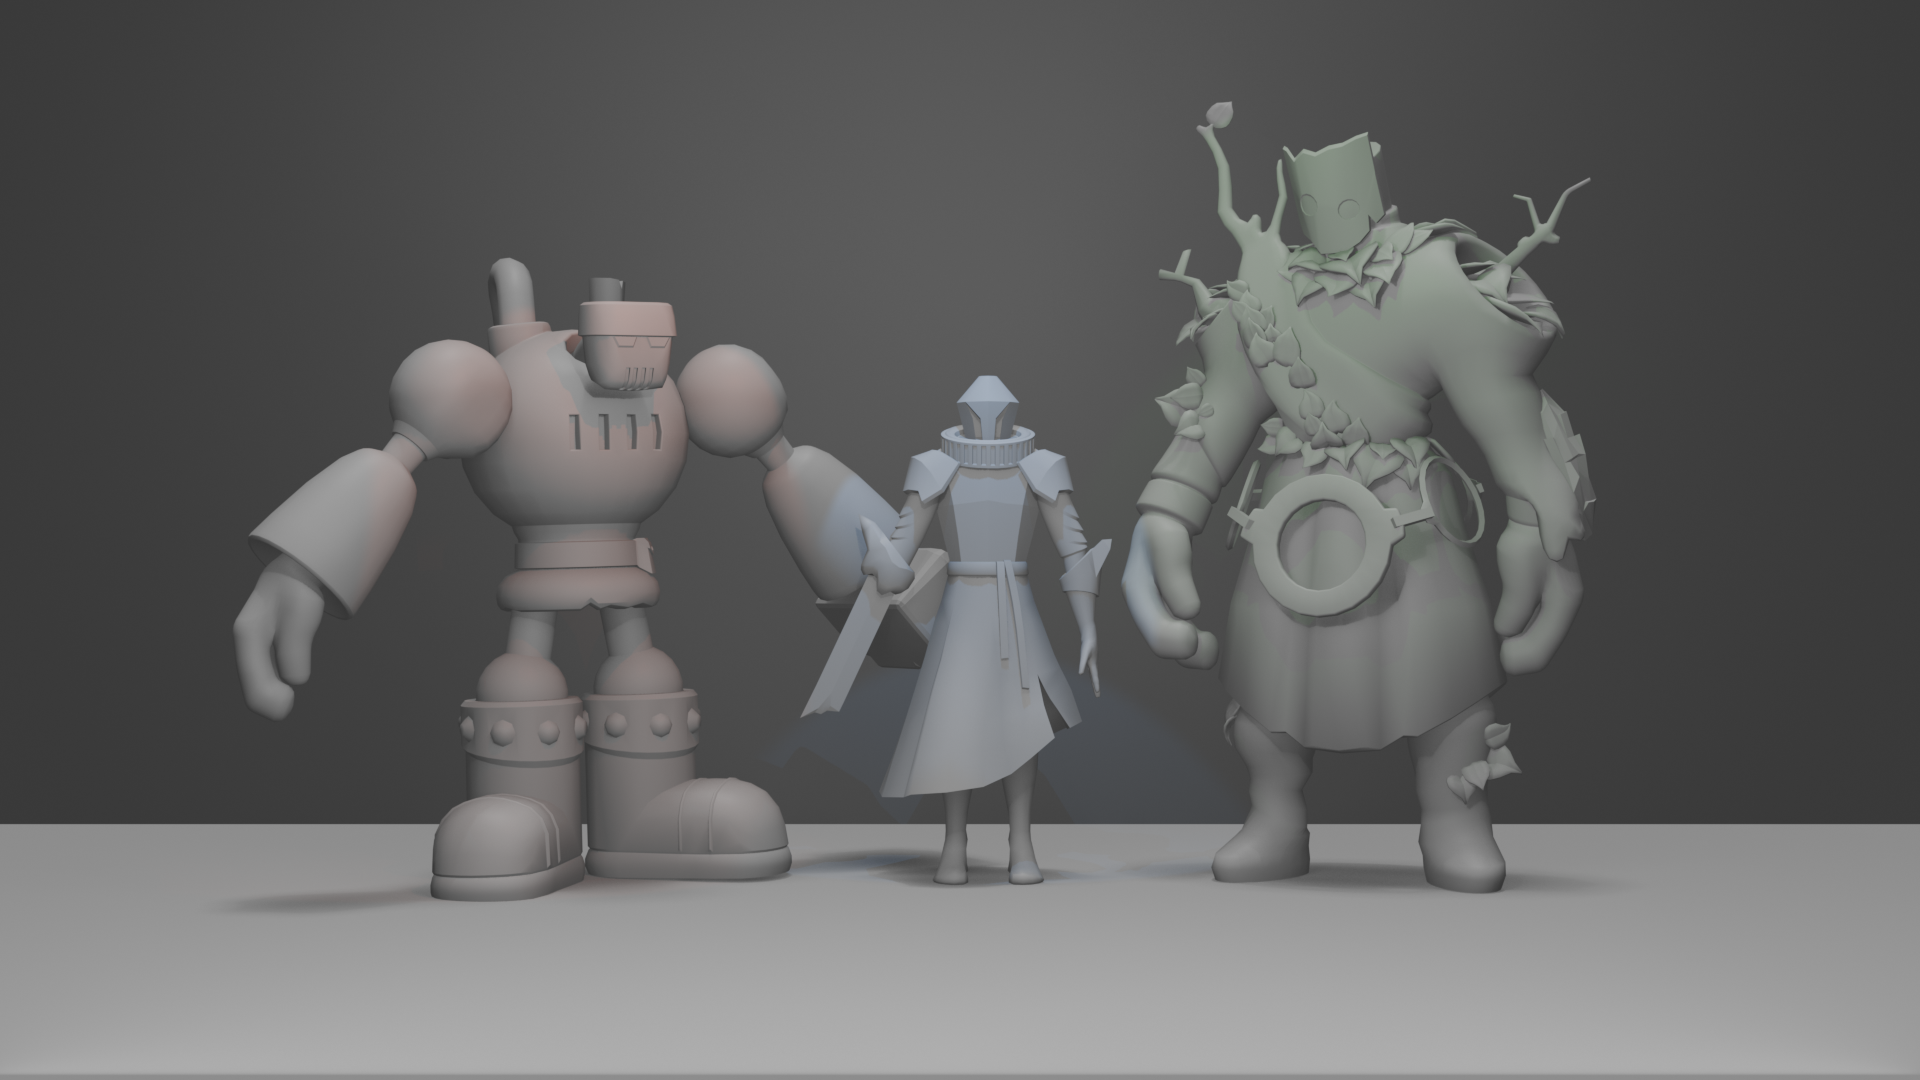
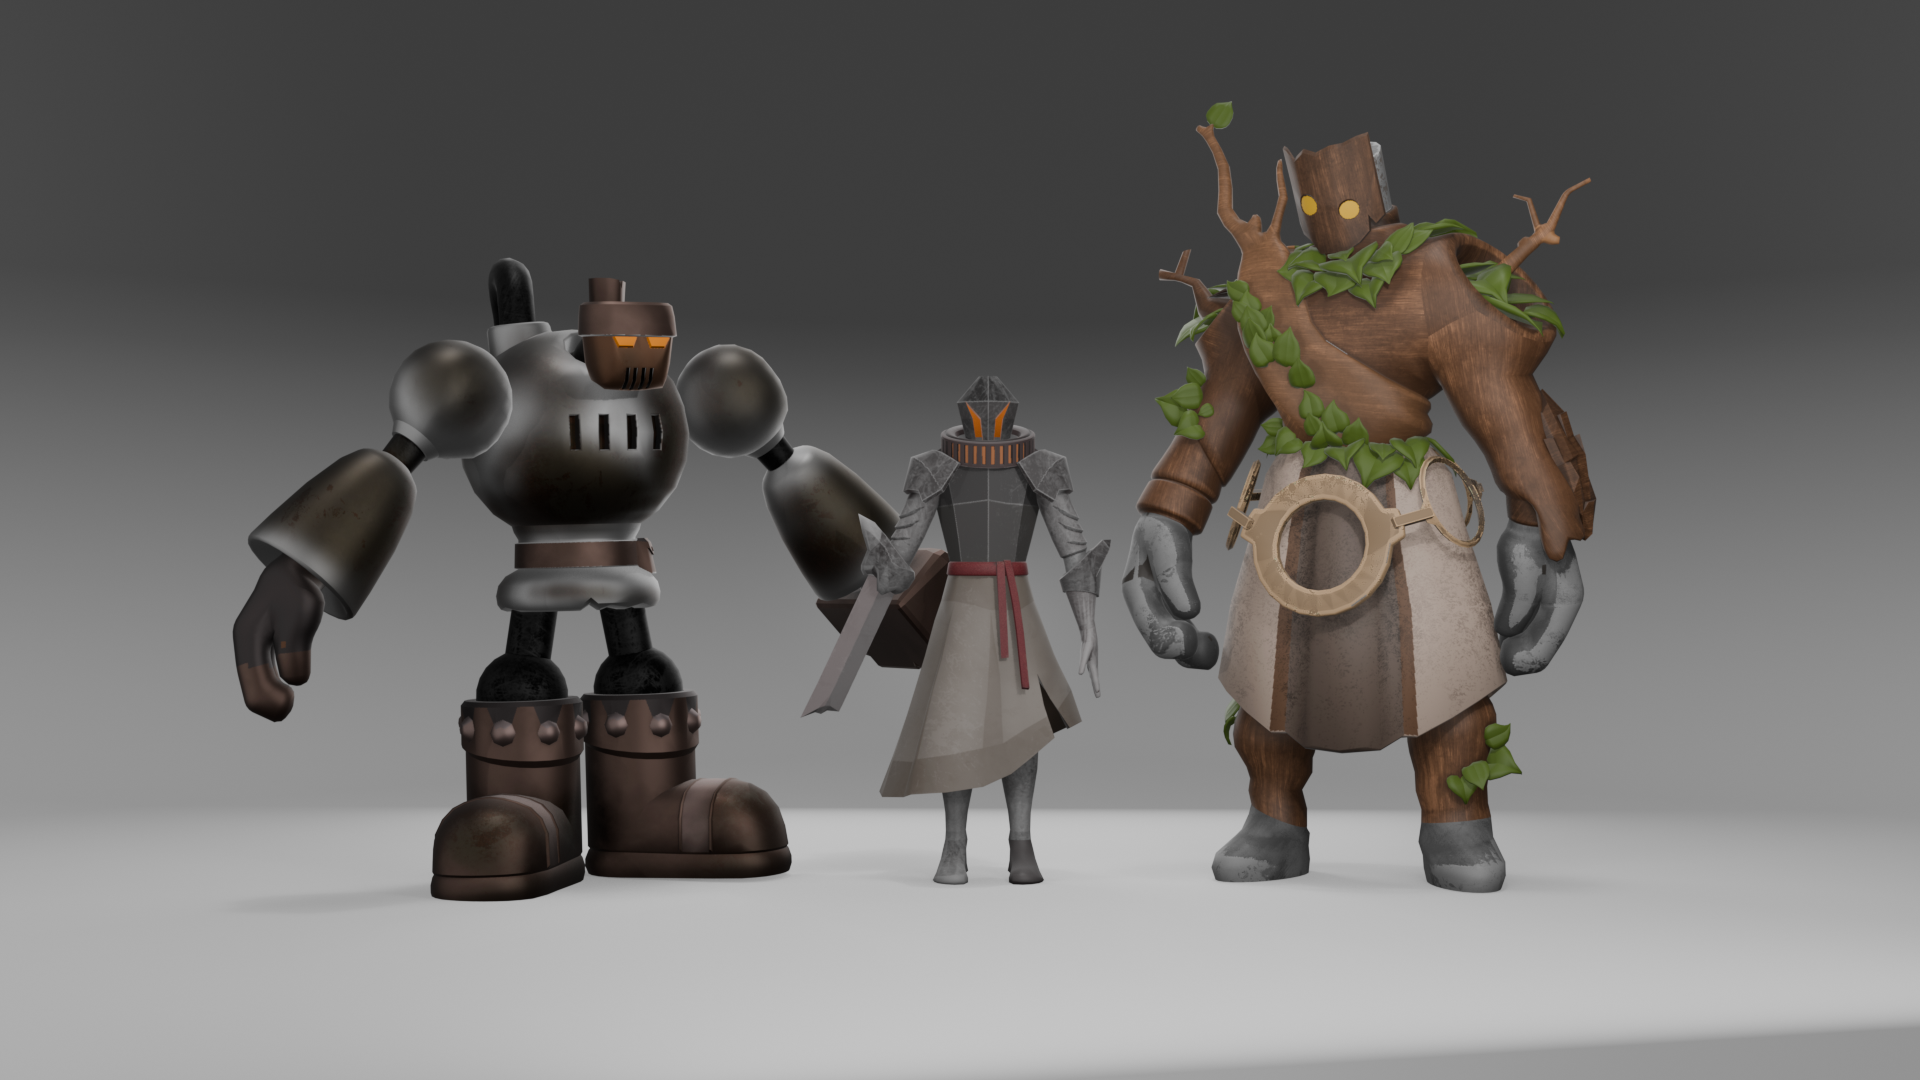
Revert 2D section

diff --git a/index.html b/index.html
@@ -24,7 +24,7 @@
             <nav>
                 <a href="index.html">Home</a>
                 <a href="gamework.html">Game Work</a>
-				<a href="painting.html">2D Art</a>
+				<a href="renders.html">Room Renders</a>
 				<a href="personal.html">Personal Work</a>
 				<a href="about.html">About</a>
             </nav>
@@ -41,10 +41,18 @@
 			<h2>Game Work</h2>
 			<img src="imgs/alloyDeath.png" width="100%">
 			</a>
-			<a href="painting.html" class = "explanation"> 
+			
+			<a href="renders.html" class = "explanation"> 
+			<h2>Room Renders</h2>
+			<img src="imgs/roomrender1.png" width="100%">
+			</a>
+			
+			<!--
 			<h2>2D Art</h2>
 			<img src="imgs/2dCover.png" width="100%">
 			</a>
+			-->
+			
 			<a href="personal.html" class = "explanation"> 
 			<h2>Personal and Other Work</h2>
 			<img src="imgs/animationscover.png" width="100%">

diff --git a/personal.html b/personal.html
@@ -25,7 +25,7 @@
             <nav>
                 <a href="index.html">Home</a>
                 <a href="gamework.html">Game Work</a>
-				<a href="painting.html">2D Art</a>
+				<a href="renders.html">Room Renders</a>
 				<a href="personal.html">Personal Work</a>
 				<a href="about.html">About</a>
             </nav>
@@ -40,7 +40,7 @@
 			<section class="shrinker">
 				<h2>Personal Work</h2>
 				
-				<h3>Room Renders</h3>
+				<!--<h3>Room Renders</h3>
 				<p>A set of renders of a room in various lighting. Modeled and rendered in Maya.</p>
 				<div class="slideshow-container">
 					<img src="imgs/roomrender1.png" class="mySlides">
@@ -57,7 +57,7 @@
 					  <span class="dot" onclick="currentSlide(3)"></span>
 					</div>
 				</div>
-				
+				-->
 				<h3>Snake Man</h3>
 				<p>A high-tech soldier of an ophidian race, based on one of my dad's old drawings. Modeled in 3D Studio Max. Concept by Joseph Ryan.</p>
 				<img src="imgs/snakemanLayout.png">

diff --git a/gamework.html b/gamework.html
@@ -24,7 +24,7 @@
             <nav>
                 <a href="index.html">Home</a>
                 <a href="gamework.html">Game Work</a>
-				<a href="painting.html">2D Art</a>
+				<a href="renders.html">Room Renders</a>
 				<a href="personal.html">Personal Work</a>
 				<a href="about.html">About</a>
             </nav>
@@ -55,7 +55,7 @@
         <footer>
 		<p>&copy; Autumn Ryan 2026</p>
 				<a href="index.html">back to home</a>
-		<a href="painting.html">to 2d art</a>
+		<a href="renders.html">to room renders</a>
         </footer>
 		
     </body>

diff --git a/renders.html b/renders.html
@@ -22,7 +22,7 @@
             <nav>
                 <a href="index.html">Home</a>
                 <a href="gamework.html">Game Work</a>
-				<a href="painting.html">2D Art</a>
+				<a href="renders.html">Room Renders</a>
 				<a href="personal.html">Personal Work</a>
 				<a href="about.html">About</a>
             </nav>
@@ -34,7 +34,7 @@
                 <a href="">Contact</a>
 			</section>
 			<h2>Room Renders</h2>
-			<p style="text-align: center">All objects modeled in Maya and rendered using Maya Arnold. Blue triangle texture sourced form <a href="https://www.architextures.org" target="_blank">architextures.org</a></p>
+			<p style="text-align: center">All objects modeled in Maya and rendered using Arnold. Blue triangle texture sourced form <a href="https://www.architextures.org" target="_blank">architextures.org</a></p>
 			<img src="imgs/roomrender1.png" width="60%">
 			<img src="imgs/roomrender2.png" width="60%">
 			<img src="imgs/roomrender3.png" width="60%">

diff --git a/resilica.html b/resilica.html
@@ -23,7 +23,7 @@
             <nav>
                 <a href="index.html">Home</a>
                 <a href="gamework.html">Game Work</a>
-				<a href="painting.html">2D Art</a>
+				<a href="renders.html">Room Renders</a>
 				<a href="personal.html">Personal Work</a>
 				<a href="about.html">About</a>
             </nav>
@@ -50,7 +50,7 @@
 		<img src="imgs/fluxLayout.png">
 			
 			<h2>Encounter Characters</h2>
-			<p>These characters offer you bonuses and perks!</p>
+			<p>These characters offer you bonuses and perks! Textures by Madison Joung.</p>
 			<img src="imgs/encounters.png">
 			
 			<h2>Enemies</h2>

diff --git a/about.html b/about.html
@@ -22,7 +22,7 @@
             <nav>
                 <a href="index.html">Home</a>
                 <a href="gamework.html">Game Work</a>
-				<a href="painting.html">2D Art</a>
+				<a href="renders.html">Room Renders</a>
 				<a href="personal.html">Personal Work</a>
 				<a href="about.html">About</a>
             </nav>

diff --git a/honorroll.html b/honorroll.html
@@ -23,7 +23,7 @@
             <nav>
                 <a href="index.html">Home</a>
                 <a href="gamework.html">Game Work</a>
-				<a href="painting.html">2D Art</a>
+				<a href="renders.html">Room Renders</a>
 				<a href="personal.html">Personal Work</a>
 				<a href="about.html">About</a>
             </nav>

diff --git a/postmortem.html b/postmortem.html
@@ -23,7 +23,7 @@
             <nav>
                 <a href="index.html">Home</a>
                 <a href="gamework.html">Game Work</a>
-				<a href="painting.html">2D Art</a>
+				<a href="renders.html">Room Renders</a>
 				<a href="personal.html">Personal Work</a>
 				<a href="about.html">About</a>
             </nav>